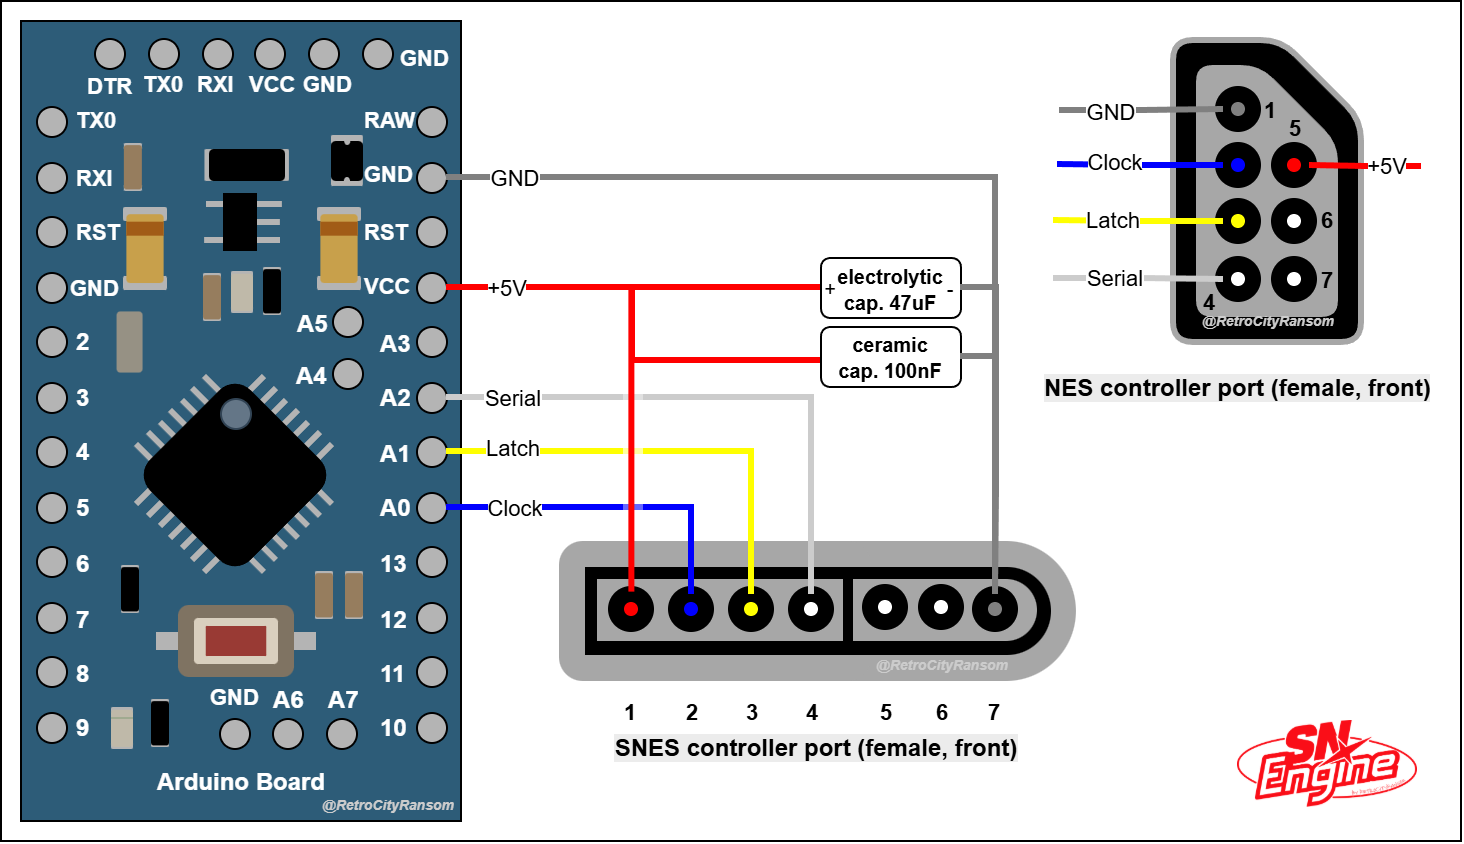
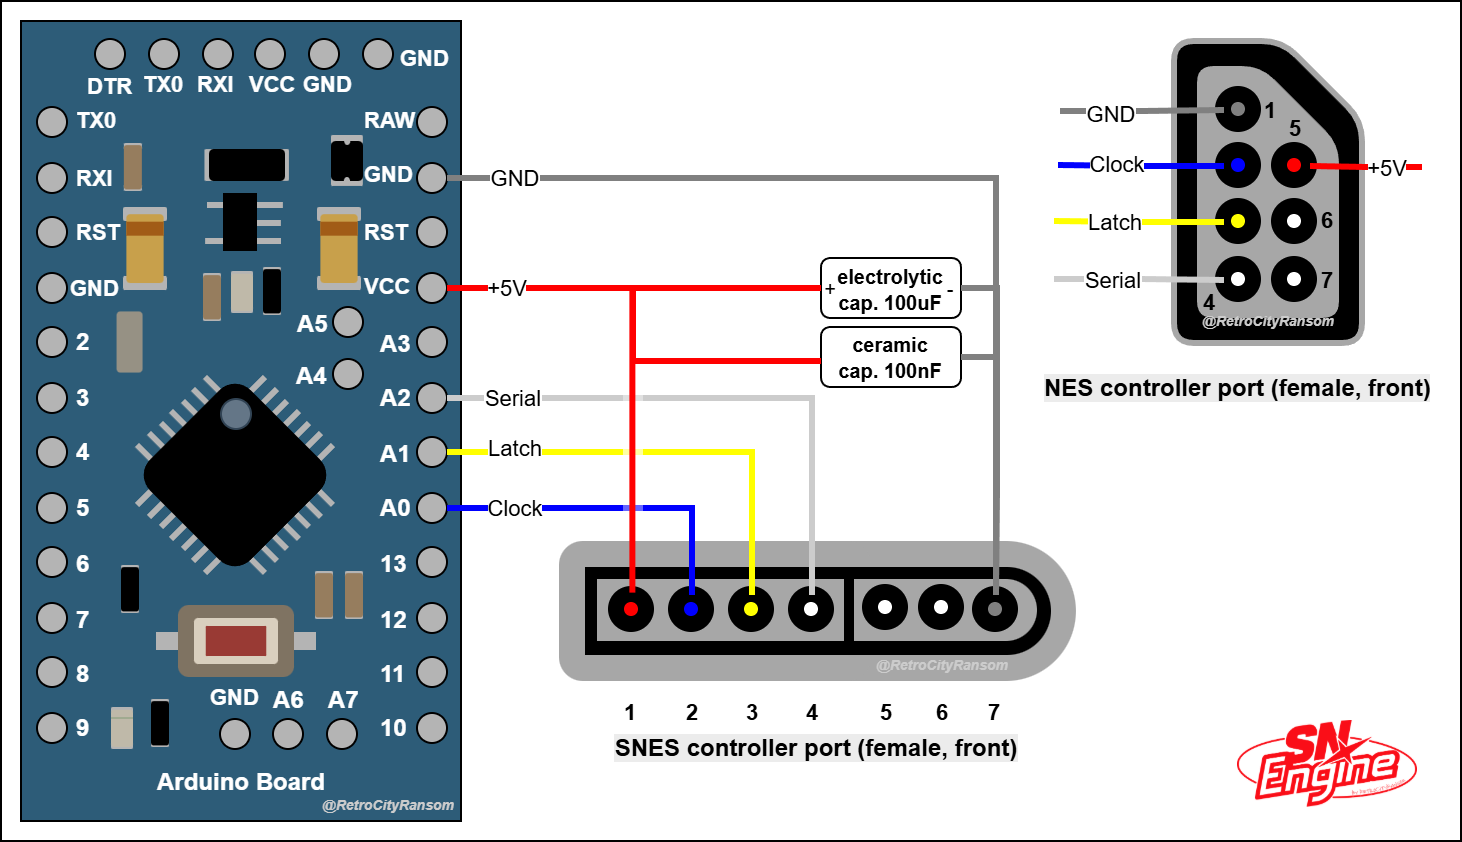
Enhancements in build plan

diff --git a/readme.md b/readme.md
@@ -56,6 +56,11 @@ Use at your own risk. I am not an electrician and strongly advise against trying
 The adapter has not been thoroughly tested yet. You may need to add resistors, capacitors or other electrical parts to ensure safe and error free operation.
 The pictures provided here are not an implementation manual, but rather a personal photo diary.
 
+## Updates
+
+- Stability for Multitap: Implementig a 100uF electornic capacitor turned out to be much more stable than the solution with 47uF.
+- Stability for Multitap: Additionally put a 47nF ceramic cap between GND and VCC of the MUX. I've soldered mine under the perfboard.
+
 ## Shopping list, software & tools
 
 | **Type** | **Optional** | **Part**                                                                     | **Remark**                                                                                                                                                                                                                                                                         |
@@ -65,8 +70,9 @@ The pictures provided here are not an implementation manual, but rather a person
 | Part     |              | Female SNES controller port                                                  | Guess … Should not cost more than 50 cents rather 35 cents.                                                                                                                                                                                                                        |
 | Part     |              | Mini Din-8 cable (at least with one male plug)                               | To connect the multiplexer to the PCE. I got mine for under €8. These are also available with two male connectors, so you can build two adapters with just one cable.                                                                                                              |
 | Part     |              | Some wires & heat shrink tubing                                              | I've used 28 AWG wires, 30 AWG should also be fine                                                                                                                                                                                                                                 |
-| Part     | (Yes)        | 47uF electrolytic capcitor                                                   | Highly recommended! Mind the correct polarity! Use together with 100nF ceramic cap to smooth out electrical spikes, stabilize voltage and hence avoid sound glitches when using 2.4gHz 8BitDo adapters instead of wired SNES pad. Connect between GND and VCC of SNES female port. |
-| Part     | (Yes)        | 100nF ceramic capcitor (type 104)                                            | Highly recommended! Use together with 47uF ceramic cap to smooth out electrical spikes, stabilize voltage and hence avoid sound glitches when using 2.4gHz 8BitDo adapters instead of wired SNES pad. Connect between GND and VCC of SNES female port.                             |
+| Part     | (Yes)        | 100uF electrolytic capcitor                                                  | Highly recommended! Mind the correct polarity! Use together with 100nF ceramic cap to smooth out electrical spikes, stabilize voltage and hence avoid sound glitches when using 2.4gHz 8BitDo adapters instead of wired SNES pad. Connect between GND and VCC of SNES female port. |
+| Part     | (Yes)        | 100nF ceramic capcitor (type 104)                                            | Highly recommended! Use together with 100uF ceramic cap to smooth out electrical spikes, stabilize voltage and hence avoid sound glitches when using 2.4gHz 8BitDo adapters instead of wired SNES pad. Connect between GND and VCC of SNES female port.                            |
+| Part     | (Yes)        | 100nF ceramic capcitor (type 104) for the MUX                                | Highly recommended! Put between GND and VCC of the MUX.                                                                                                                                                                                                                            |
 | Part     | Yes          | Screw terminal block (8 pin) connectors 2.54mm                               | Very convenient if you do not want to take the risk soldering the wrong cables to your Arduino. Any size will work, but two eight-terminal connectors are optimal. Using a larger one prevents the MUX from fitting under the Arduino, requiring a bigger case.                    |
 | Part     | Yes          | A small Perfboard                                                            | I've cut mine 4x8. To mount/protect the multiplexer so that its pins do not bend, attach the wires to the underside.  If your case is significantly larger than that of the SNES-to-NEOGEO adapter, you can try mounting all the electronic components.                            |
 | Part     | Yes          | Superglue                                                                    | To firmly attach the SNES port to the case. Best only glue the lower part of the case and the SNES port, so you can still open the case without breaking it.                                                                                                                       |
@@ -128,7 +134,11 @@ Here are some pictures to show, how I've tried to build the SNEngine adapter and
 ![SNEngine SNES to PC Engine Adapter](media/photos/snengine_assembly_36_small.jpg)
 ![SNEngine SNES to PC Engine Adapter](media/photos/snengine_assembly_37_small.jpg)
 ![SNEngine SNES to PC Engine Adapter](media/photos/snengine_assembly_40_small.jpg)
+
+**Better use 100uF than 47uF. Keep in mind that the 100uF cap is slightly bigger and will need more space.**
+
 ![SNEngine SNES to PC Engine Adapter](media/photos/snengine_assembly_41_small.jpg)
+
 ![SNEngine SNES to PC Engine Adapter](media/photos/snengine_assembly_42_small.jpg)
 ![SNEngine SNES to PC Engine Adapter](media/photos/snengine_assembly_44_small.jpg)
 ![SNEngine SNES to PC Engine Adapter](media/photos/snengine_assembly_45_small.jpg)
